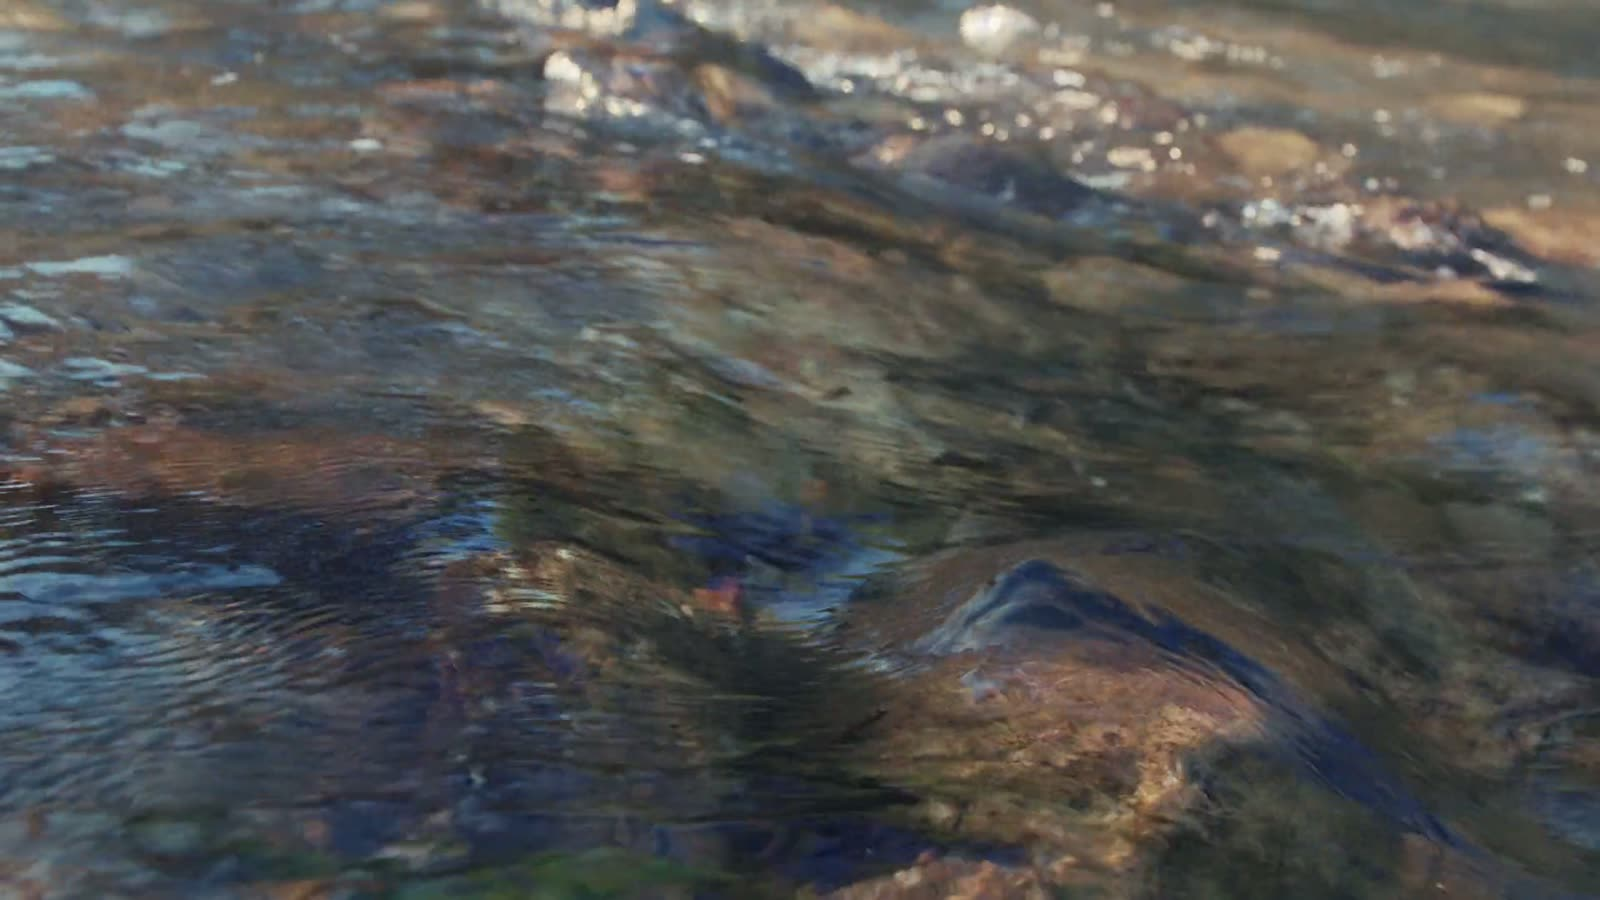
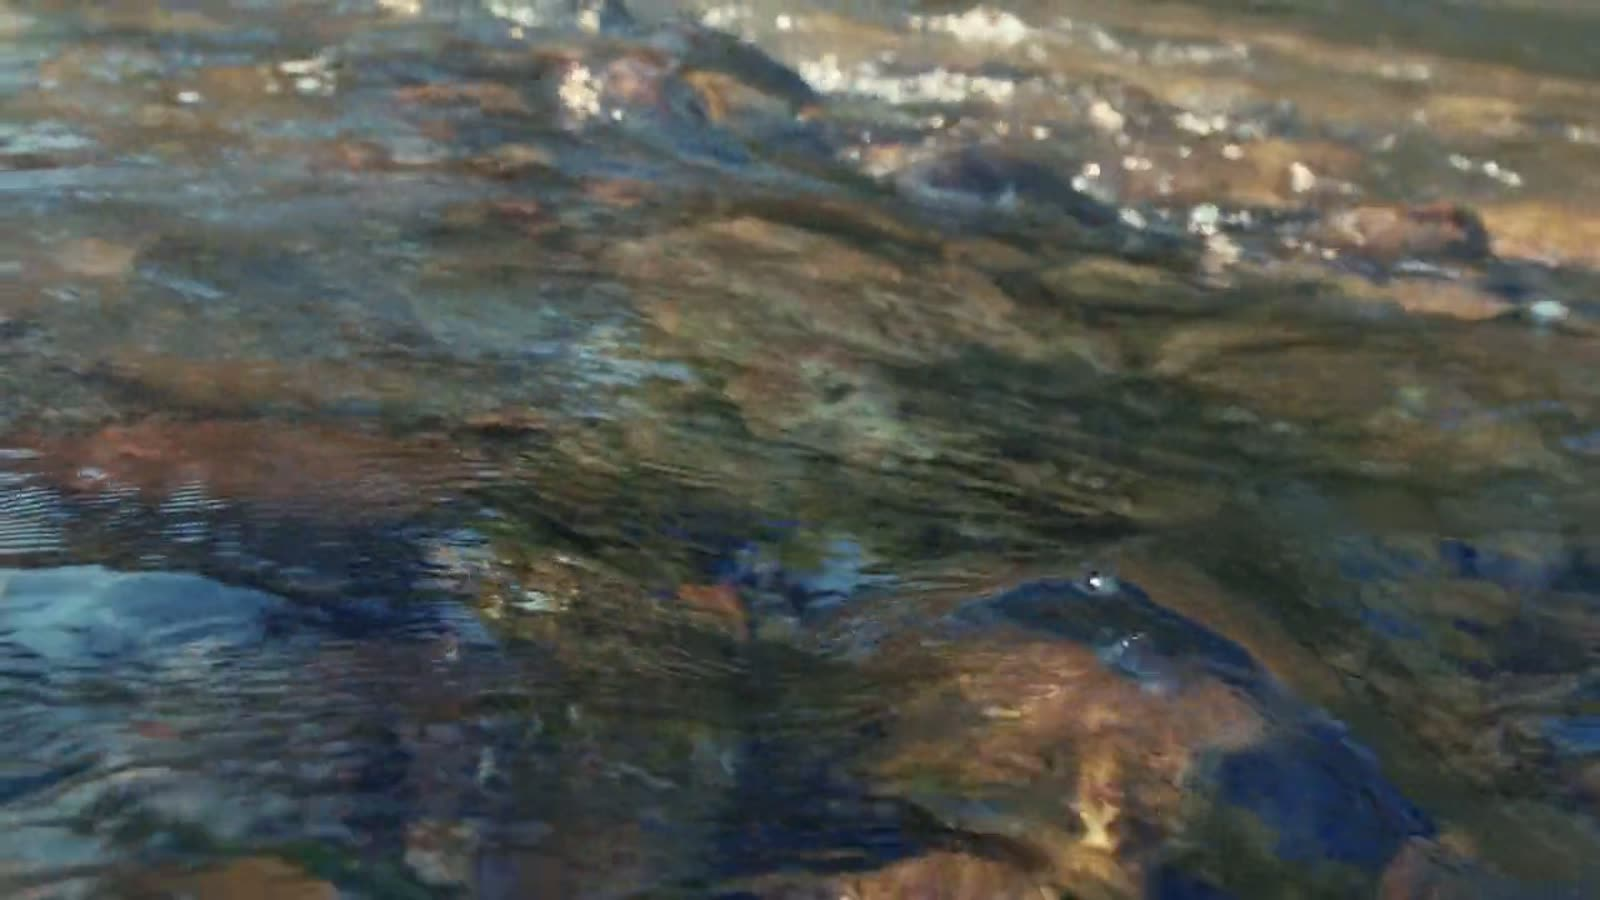
Fix stuttering water video on the Bach flowers gate
The 9.3s clip restarted every few seconds with a visible jump. Rebuilt it
as an 18.6s seamless palindrome (forward + reversed, duplicate boundary
frames dropped) so the loop point is invisible.

Also removed three GPU costs that competed with video decode:
- baked the colour grade into the file instead of a per-frame CSS filter
- paused the WebGL render loop while the gate is up
- paused the blurred background blobs and hid the canvas behind the gate

diff --git a/bach-flowers-experience.html b/bach-flowers-experience.html
@@ -441,8 +441,9 @@
             inset: 0;
             width: 100%; height: 100%;
             object-fit: cover;
-            filter: saturate(1.2) contrast(1.06) brightness(1.02);
+            /* בלי filter — הצבע נצרב לתוך הקובץ, כדי לא לסנן 24 פריימים בשנייה על ה-GPU */
             animation: gateZoom 26s ease-out forwards;
+            will-change: transform;
         }
         @keyframes gateZoom {
             from { transform: scale(1.02); }
@@ -459,6 +460,12 @@
             animation: gateFade 1.8s ease forwards 0.6s;
         }
         @keyframes gateFade { to { opacity: 1; } }
+
+        /* מאחורי השער — שום דבר לא מצויר. כל ה-GPU שייך לוידאו */
+        body.is-gated .blob { animation-play-state: paused; }
+        body.is-gated #stage,
+        body.is-gated .plant-layer,
+        body.is-gated .bottle-glow { visibility: hidden; }
 
         .gate-flash {
             position: absolute;
@@ -613,7 +620,7 @@
     <div class="gate" id="gate">
         <video class="gate-video" id="gateVid"
                autoplay muted loop playsinline preload="auto"
-               poster="images/gate-poster.jpg" src="videos/water.mp4"></video>
+               poster="images/gate-poster.jpg" src="videos/gate-water.mp4"></video>
         <div class="gate-shade"></div>
         <div class="gate-flash"></div>
 
@@ -702,6 +709,8 @@
             const btn  = document.getElementById('gateBtn');
             let opened = false;
 
+            document.body.classList.add('is-gated');
+
             // אם הדפדפן חוסם הפעלה אוטומטית — הפוסטר נשאר, לא נשבר כלום
             const p = vid.play();
             if (p && p.catch) p.catch(() => {});
@@ -710,6 +719,7 @@
                 if (opened) return;
                 opened = true;
                 gate.classList.add('opening');
+                document.body.classList.remove('is-gated');
                 dispatchEvent(new Event('gateopen'));   // משחרר את החוויה
                 setTimeout(() => { try { vid.pause(); } catch (e) {} gate.remove(); }, 1400);
             }
@@ -874,6 +884,9 @@
         const LABEL_FRONT = Math.PI / 2; // הזווית שבה התווית פונה למצלמה
         const state = { idx: 0, explode: 0, animating: false, mouseX: 0, mouseY: 0, spinY: LABEL_FRONT, shardBlend: 0 };
         const shardData = [];
+
+        // כל עוד שער הכניסה למעלה — החוויה נעולה, והרינדור מושהה כדי שהוידאו יקבל את כל ה-GPU
+        let gated = !!document.getElementById('gate');
 
         if (webglOk) {
             renderer.setPixelRatio(Math.min(window.devicePixelRatio, 2));
@@ -1155,7 +1168,13 @@
             bottleGroup.userData.targetColor = targetColor;
 
             const clock = new THREE.Clock();
+            let warmFrames = 0;
             function tick() {
+                requestAnimationFrame(tick);
+                // מאחורי השער מספיק לרנדר כמה פריימים כדי שהסצנה תהיה מוכנה, ואז לעצור
+                if (gated && warmFrames > 2) return;
+                warmFrames++;
+
                 const t = clock.getElapsedTime();
                 const e = state.explode;
 
@@ -1183,7 +1202,6 @@
                 rimLight.color.copy(curColor);
 
                 renderer.render(scene, camera);
-                requestAnimationFrame(tick);
             }
             tick();
 
@@ -1349,7 +1367,6 @@
         gsap.set('body', { backgroundColor: FLOWERS[0].bg });
 
         const introTargets = [el.titleMeta, el.bigTitle, el.titleGroup, el.infoCard];
-        let gated = !!document.getElementById('gate');
         if (gated) gsap.set(introTargets, { opacity: 0 });
 
         function revealExperience() {